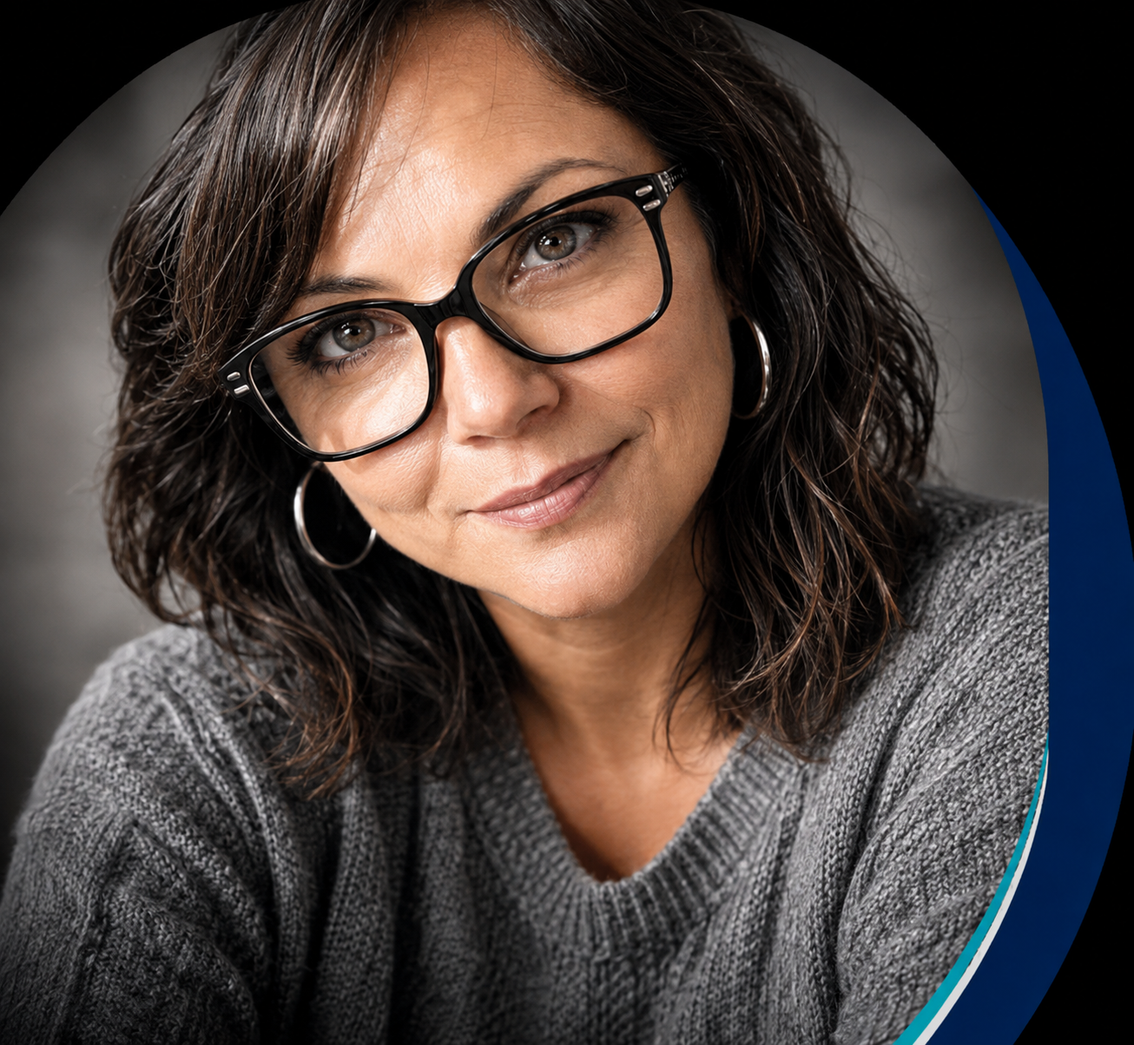
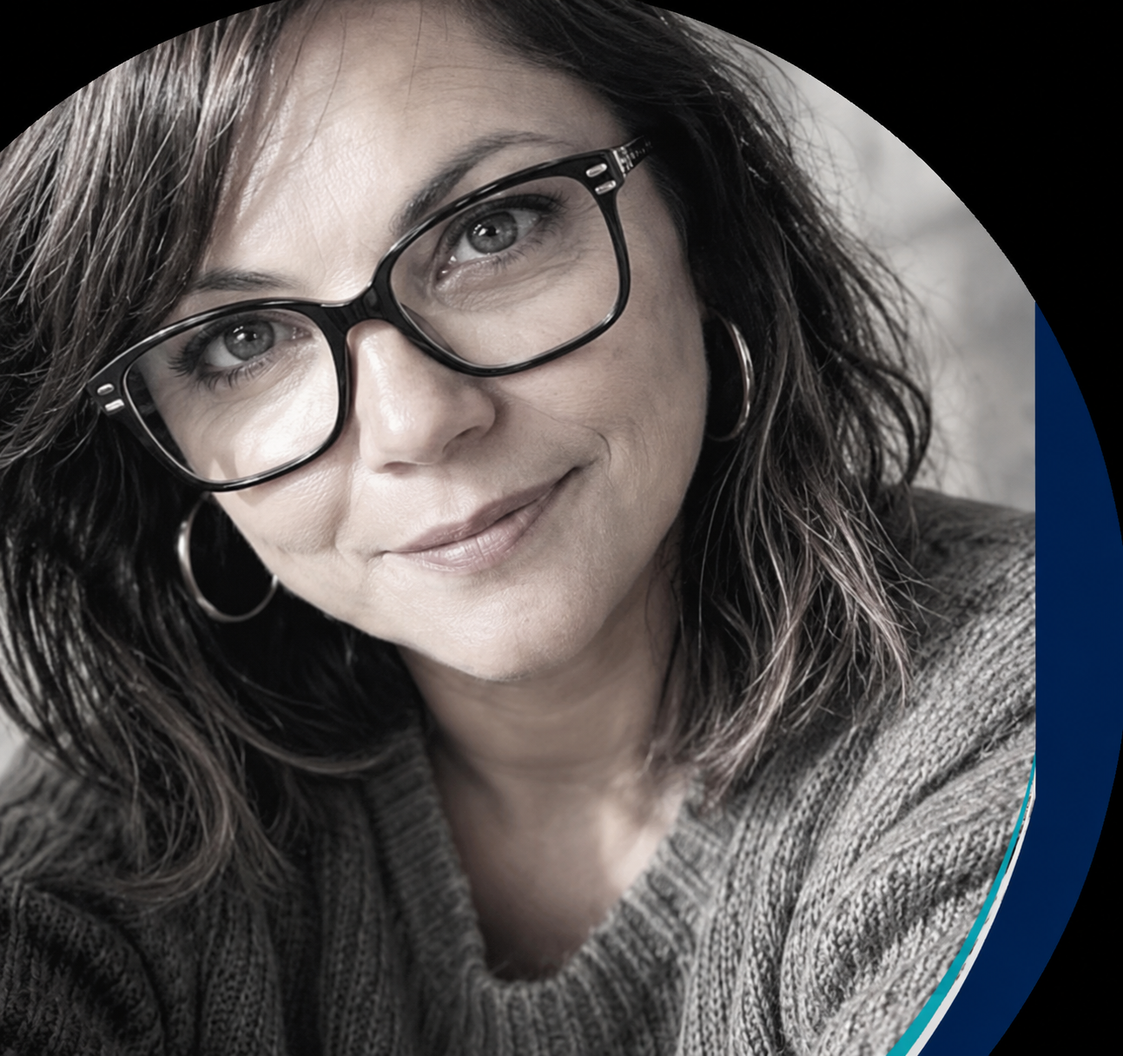
Add files via upload

diff --git a/index.html b/index.html
@@ -1,11 +1,11 @@
-<!DOCTYPE html>
+E html>
 <html lang="fr">
 <head>
   <meta charset="UTF-8">
   <meta name="viewport" content="width=device-width, initial-scale=1.0">
   <meta name="description" content="De l'idée à l'impact — Portfolio professionnel de Sandrine Paparemborde Maumy.">
   <title>De l'idée à l'impact — Sandrine Paparemborde Maumy</title>
-  <link rel="stylesheet" href="style-v3-etape4-1.css?v=352">
+  <link rel="stylesheet" href="style-v3-etape4-1.css?v=341">
 </head>
 <body>
 <div class="intro-screen" aria-hidden="true">
@@ -31,6 +31,7 @@
           <a href="#preuves">Les preuves</a>
           <a href="#resultats">Résultats</a>
           <a href="#management">Management</a>
+          <a href="#immersions">Immersions</a>
           <a href="#temoignages">Ils en parlent</a>
           <a href="#vision">Ma vision</a>
         </div>
@@ -66,8 +67,9 @@
       <a href="#preuves"><strong>02</strong><span>Les preuves</span></a>
       <a href="#resultats"><strong>03</strong><span>Les résultats</span></a>
       <a href="#management"><strong>04</strong><span>Manager dans l'action</span></a>
-      <a href="#temoignages"><strong>05</strong><span>Ils en parlent</span></a>
-      <a href="#vision"><strong>06</strong><span>Ma vision</span></a>
+      <a href="#immersions"><strong>05</strong><span>Immersions managériales</span></a>
+      <a href="#temoignages"><strong>06</strong><span>Ils en parlent</span></a>
+      <a href="#vision"><strong>07</strong><span>Ma vision</span></a>
     </div>
   </div>
 </section>
@@ -144,44 +146,8 @@
         <a class="main-link" href="https://prezi.com/view/c4dwlTIqFjQt7i8cXg9i/?referral_token=P_iN9DlnB3FN" target="_blank" rel="noopener">Voir la preuve →</a>
       </article>
 
-      <article class="folder proof-card" data-category="innovation">
-        <div class="folder-head"><span class="folder-index">02</span><span class="folder-icon">📁</span><span>Mon Passeport Avenir Pro</span></div>
-        <p class="project-summary">Transformer l'expérience des ateliers en un outil personnel, durable et réutilisable.</p>
-        <div class="project-flow">
-          <div><b>Besoin</b><span>Des élèves trop passifs et peu de traces conservées.</span></div>
-          <div><b>Réponse</b><span>Un parcours numérique personnel et progressif.</span></div>
-          <div><b>Impact</b><span>8 classes, 215 élèves, 8 enseignants.</span></div>
-        </div>
-        <div class="skills">Innovation · Partenariat · Conception · Déploiement</div>
-        <a class="main-link" href="https://mon-passeport-avenir-pro.pages.dev/" target="_blank" rel="noopener">Découvrir le projet →</a>
-      </article>
-
-      <article class="folder proof-card" data-category="innovation developpement">
-        <div class="folder-head"><span class="folder-index">03</span><span class="folder-icon">📁</span><span>Padlet CEJ</span></div>
-        <p class="project-summary">Donner aux jeunes un accès rapide et autonome aux opportunités locales.</p>
-        <div class="project-flow">
-          <div><b>Besoin</b><span>Des informations urgentes entre deux rendez-vous.</span></div>
-          <div><b>Réponse</b><span>Un espace partagé alimenté par 5 conseillers.</span></div>
-          <div><b>Impact</b><span>240 jeunes accompagnés pendant 6 mois.</span></div>
-        </div>
-        <div class="skills">Pouvoir d'agir · Conduite du changement · Autonomie</div>
-        <a class="main-link" href="https://padlet.com/APEPolygone/document-partage-equipe-cej-agence-france-travail-de-langon-aosroxestk13sw9f" target="_blank" rel="noopener">Voir la preuve →</a>
-      </article>
-
-      <article class="folder proof-card" data-category="developpement">
-        <div class="folder-head"><span class="folder-index">04</span><span class="folder-icon">📁</span><span>Guide interactif des partenaires</span></div>
-        <p class="project-summary">Rendre l'offre partenariale immédiatement accessible aux conseillers.</p>
-        <div class="project-flow">
-          <div><b>Besoin</b><span>Une offre riche mais difficile à mobiliser rapidement.</span></div>
-          <div><b>Réponse</b><span>Un mémo interactif structuré par besoins.</span></div>
-          <div><b>Impact</b><span>Un outil validé et salué par la direction départementale.</span></div>
-        </div>
-        <div class="skills">Structuration · Simplification · Coordination territoriale</div>
-        <a class="main-link" href="https://poleemploi.sharepoint.com/:p:/r/sites/OCC-Collectif-DTPyrnes-Orientales/_layouts/15/Doc.aspx?sourcedoc=%7BDD48FEF5-0394-4B19-84B0-B2C1670B8840%7D&file=_Guide%20des%20partenaires%20Intensif%20%20Interactif%20JUIN%202026.pptx&action=edit&mobileredirect=true" target="_blank" rel="noopener">Ouvrir le guide →</a>
-      </article>
-
       <article class="folder proof-card featured-proof" data-category="mobilisation">
-        <div class="folder-head"><span class="folder-index">05</span><span class="folder-icon">📁</span><span>Simulation immersive d'entretien</span></div>
+        <div class="folder-head"><span class="folder-index">02</span><span class="folder-icon">📁</span><span>Simulation immersive d'entretien</span></div>
         <p class="project-summary">Mobiliser un collectif autour d'une action concrète à forte valeur pédagogique.</p>
         <div class="project-flow">
           <div><b>Besoin</b><span>Préparer les élèves aux réalités de l'entretien.</span></div>
@@ -193,19 +159,7 @@
       </article>
 
       <article class="folder proof-card" data-category="developpement">
-        <div class="folder-head"><span class="folder-index">06</span><span class="folder-icon">📁</span><span>Guide espace recruteur</span></div>
-        <p class="project-summary">Transformer une procédure complexe en parcours clair pour les employeurs.</p>
-        <div class="project-flow">
-          <div><b>Besoin</b><span>Des employeurs peu autonomes sur l'espace recruteur.</span></div>
-          <div><b>Réponse</b><span>Un guide interactif et un PDF réutilisable.</span></div>
-          <div><b>Impact</b><span>Des démarches simplifiées et plus autonomes.</span></div>
-        </div>
-        <div class="skills">Vulgarisation · Parcours utilisateur · Autonomie employeur</div>
-        <a class="main-link" href="https://prezi.com/view/ou5HqQnrszqdwTtCcEfu/?referral_token=P_iN9DlnB3FN" target="_blank" rel="noopener">Découvrir le guide →</a>
-      </article>
-
-      <article class="folder proof-card" data-category="developpement">
-        <div class="folder-head"><span class="folder-index">07</span><span class="folder-icon">📁</span><span>Développement des compétences</span></div>
+        <div class="folder-head"><span class="folder-index">03</span><span class="folder-icon">📁</span><span>Développement des compétences</span></div>
         <p class="project-summary">Créer un support de référence consultable, évolutif et directement mobilisable.</p>
         <div class="project-flow">
           <div><b>Besoin</b><span>Renforcer les connaissances des équipes sur la formation.</span></div>
@@ -218,7 +172,7 @@
       </article>
 
       <article class="folder proof-card" data-category="mobilisation">
-        <div class="folder-head"><span class="folder-index">08</span><span class="folder-icon">📁</span><span>Revue de performance régionale</span></div>
+        <div class="folder-head"><span class="folder-index">04</span><span class="folder-icon">📁</span><span>Revue de performance régionale</span></div>
         <p class="project-summary">Présenter une innovation CEJ et valoriser les pratiques de l'agence.</p>
         <div class="project-flow">
           <div><b>Besoin</b><span>Rendre visible une initiative locale à fort impact.</span></div>
@@ -230,7 +184,43 @@
       </article>
 
       <article class="folder proof-card" data-category="innovation developpement">
-        <div class="folder-head"><span class="folder-index">09</span><span class="folder-icon">📁</span><span>Parcours Avenir Pro</span></div>
+        <div class="folder-head"><span class="folder-index">05</span><span class="folder-icon">📁</span><span>Padlet CEJ</span></div>
+        <p class="project-summary">Donner aux jeunes un accès rapide et autonome aux opportunités locales.</p>
+        <div class="project-flow">
+          <div><b>Besoin</b><span>Des informations urgentes entre deux rendez-vous.</span></div>
+          <div><b>Réponse</b><span>Un espace partagé alimenté par 5 conseillers.</span></div>
+          <div><b>Impact</b><span>240 jeunes accompagnés pendant 6 mois.</span></div>
+        </div>
+        <div class="skills">Pouvoir d'agir · Conduite du changement · Autonomie</div>
+        <a class="main-link" href="https://padlet.com/APEPolygone/document-partage-equipe-cej-agence-france-travail-de-langon-aosroxestk13sw9f" target="_blank" rel="noopener">Voir la preuve →</a>
+      </article>
+
+      <article class="folder proof-card" data-category="developpement">
+        <div class="folder-head"><span class="folder-index">06</span><span class="folder-icon">📁</span><span>Guide interactif des partenaires</span></div>
+        <p class="project-summary">Rendre l'offre partenariale immédiatement accessible aux conseillers.</p>
+        <div class="project-flow">
+          <div><b>Besoin</b><span>Une offre riche mais difficile à mobiliser rapidement.</span></div>
+          <div><b>Réponse</b><span>Un mémo interactif structuré par besoins.</span></div>
+          <div><b>Impact</b><span>Un outil validé et salué par la direction départementale.</span></div>
+        </div>
+        <div class="skills">Structuration · Simplification · Coordination territoriale</div>
+        <a class="main-link" href="https://poleemploi.sharepoint.com/:p:/r/sites/OCC-Collectif-DTPyrnes-Orientales/_layouts/15/Doc.aspx?sourcedoc=%7BDD48FEF5-0394-4B19-84B0-B2C1670B8840%7D&file=_Guide%20des%20partenaires%20Intensif%20%20Interactif%20JUIN%202026.pptx&action=edit&mobileredirect=true" target="_blank" rel="noopener">Ouvrir le guide →</a>
+      </article>
+
+      <article class="folder proof-card" data-category="innovation">
+        <div class="folder-head"><span class="folder-index">07</span><span class="folder-icon">📁</span><span>Mon Passeport Avenir Pro</span></div>
+        <p class="project-summary">Transformer l'expérience des ateliers en un outil personnel, durable et réutilisable.</p>
+        <div class="project-flow">
+          <div><b>Besoin</b><span>Des élèves trop passifs et peu de traces conservées.</span></div>
+          <div><b>Réponse</b><span>Un parcours numérique personnel et progressif.</span></div>
+          <div><b>Impact</b><span>8 classes, 215 élèves, 8 enseignants.</span></div>
+        </div>
+        <div class="skills">Innovation · Partenariat · Conception · Déploiement</div>
+        <a class="main-link" href="https://mon-passeport-avenir-pro.pages.dev/" target="_blank" rel="noopener">Découvrir le projet →</a>
+      </article>
+
+      <article class="folder proof-card" data-category="innovation developpement">
+        <div class="folder-head"><span class="folder-index">08</span><span class="folder-icon">📁</span><span>Parcours Avenir Pro</span></div>
         <p class="project-summary">Concevoir un parcours pédagogique complet, interactif et évalué.</p>
         <div class="project-flow">
           <div><b>Besoin</b><span>Rendre les ateliers plus engageants et mémorables.</span></div>
@@ -239,6 +229,18 @@
         </div>
         <div class="pills"><a class="pill" href="https://view.genially.com/68e63605e8a2232c6f2ba8a4" target="_blank" rel="noopener">Atelier 1</a><a class="pill" href="https://view.genially.com/68e8ffdde8d4ab42a77d42c5" target="_blank" rel="noopener">Atelier 2</a><a class="pill" href="https://view.genially.com/68f60dcb08e3777e12812fd8" target="_blank" rel="noopener">Atelier 3</a><a class="pill" href="https://view.genially.com/68f60e19b0a2bdd88a7df042" target="_blank" rel="noopener">Atelier 4</a><a class="pill" href="https://view.genially.com/6915ccf838c32f9240b12fc1" target="_blank" rel="noopener">Atelier 5</a><a class="pill" href="https://view.genially.com/68ecd334d738c90b7a5e551c" target="_blank" rel="noopener">Atelier 6</a><a class="pill quiz" href="https://view.genially.com/68e7a7093eefbe0f6482433e" target="_blank" rel="noopener">Quiz 1</a><a class="pill quiz" href="https://view.genially.com/68ecc32f9fa39f3906799a2b" target="_blank" rel="noopener">Quiz 2</a><a class="pill quiz" href="https://view.genially.com/68f6308a477bfd0caac2aa1b" target="_blank" rel="noopener">Quiz 3</a><a class="pill quiz" href="https://view.genially.com/6909ae9fd7bc6ad9372b8e27" target="_blank" rel="noopener">Quiz 4</a></div>
         <div class="skills">Ingénierie pédagogique · Création · Animation · Évaluation</div>
+      </article>
+
+      <article class="folder proof-card" data-category="developpement">
+        <div class="folder-head"><span class="folder-index">09</span><span class="folder-icon">📁</span><span>Guide espace recruteur</span></div>
+        <p class="project-summary">Transformer une procédure complexe en parcours clair pour les employeurs.</p>
+        <div class="project-flow">
+          <div><b>Besoin</b><span>Des employeurs peu autonomes sur l'espace recruteur.</span></div>
+          <div><b>Réponse</b><span>Un guide interactif et un PDF réutilisable.</span></div>
+          <div><b>Impact</b><span>Des démarches simplifiées et plus autonomes.</span></div>
+        </div>
+        <div class="skills">Vulgarisation · Parcours utilisateur · Autonomie employeur</div>
+        <a class="main-link" href="https://prezi.com/view/ou5HqQnrszqdwTtCcEfu/?referral_token=P_iN9DlnB3FN" target="_blank" rel="noopener">Découvrir le guide →</a>
       </article>
     </div>
   </div>
@@ -307,7 +309,7 @@
         <div class="domain-stats">
           <div class="wide-stat"><strong>35 % → 85 %</strong><span>de suivi réalisé</span></div>
           <div><strong>+50</strong><span>points de progression</span></div>
-          <div><strong>+14 pts</strong><span>par rapport à N-1 sur l’indicateur FTAE</span></div>
+          <div><strong>+3 %</strong><span>sur l’indicateur FTAE</span></div>
         </div>
       </article>
 
@@ -383,21 +385,81 @@
   </div>
 </section>
 
+
+<section class="immersions-section" id="immersions">
+  <div class="container reveal">
+    <span class="section-number">05</span><span class="kicker">Construire ma posture managériale</span>
+    <h2>Deux immersions, deux environnements, un même objectif</h2>
+    <p class="intro">Confronter ma représentation du management à des réalités d'agence différentes, observer les pratiques et enrichir ma manière d'agir.</p>
+
+    <div class="immersion-grid">
+      <article class="immersion-card">
+        <div class="immersion-card-head">
+          <span class="immersion-place">PRADES</span>
+          <span class="immersion-duration">2 jours</span>
+        </div>
+        <p class="immersion-context">Agence à taille humaine · proximité · polyvalence · fonctionnement collectif de l'ELD</p>
+        <div class="immersion-points">
+          <div><b>Observer</b><span>La mutualisation, la fluidité des échanges et la capacité des managers à se relayer au-delà de leur périmètre.</span></div>
+          <div><b>Approfondir</b><span>Le pilotage de l'activité, la planification, les ESA et la lecture contextualisée de la performance.</span></div>
+          <div><b>Retenir</b><span>Un manager contribue au fonctionnement global de l'agence et porte collectivement les décisions de l'ELD.</span></div>
+        </div>
+      </article>
+
+      <article class="immersion-card">
+        <div class="immersion-card-head">
+          <span class="immersion-place">MONTPELLIER MÉDITERRANÉE</span>
+          <span class="immersion-duration">3 jours</span>
+        </div>
+        <p class="immersion-context">Agence de +110 collaborateurs · coordination entre managers · enjeux RH · accompagnement du changement</p>
+        <div class="immersion-points">
+          <div><b>Observer</b><span>Le fonctionnement d'une ELD élargie et la coordination entre REA dans un environnement plus complexe.</span></div>
+          <div><b>Approfondir</b><span>Les arbitrages liés à la constitution des équipes, les impacts humains et RH et l'accompagnement des transformations.</span></div>
+          <div><b>Retenir</b><span>La coopération entre pairs et l'intelligence collective sécurisent les décisions et renforcent la cohérence managériale.</span></div>
+        </div>
+      </article>
+    </div>
+
+    <div class="immersion-synthesis">
+      <strong>Ce que ces immersions ont consolidé</strong>
+      <span>Pilotage · coopération en ELD · prise de recul · accompagnement des collaborateurs · décision collective · performance et enjeux humains</span>
+    </div>
+
+    <div class="immersion-perspective">
+      <span class="kicker">Élargir le regard</span>
+      <p>Ma participation au CDTE des Pyrénées-Orientales et à un atelier autour de la convention tripartite complète ces immersions en reliant les réalités d'agence aux enjeux de transformation et de territoire.</p>
+    </div>
+  </div>
+</section>
+
 <section class="reviews-section" id="temoignages">
   <div class="container reveal">
-    <span class="section-number">05</span><span class="kicker">Ils en parlent</span>
-    <h2>Ils en parlent</h2>
-    <p class="reviews-intro">Ces témoignages illustrent mon parcours professionnel.</p>
+    <span class="section-number">06</span><span class="kicker">Ils en parlent</span>
+   <h2>Ils en parlent</h2>
+<p class="reviews-intro">
+  Ces témoignages illustrent mon parcours professionnel.
+</p>
     <div class="quote-grid">
-      <blockquote class="review-card review-ft"><p>« Un grand merci à Mme Paparemborde pour la compilation de l'offre de services partenaires sur un outil mémo interactif très bien conçu. »</p><footer><strong>Anne Danycan</strong><br>Directrice départementale<br>France Travail Pyrénées-Orientales</footer></blockquote>
-      <blockquote class="review-card review-partner"><p>« Ta disponibilité, la qualité de tes échanges et la richesse de ton témoignage ont été particulièrement appréciées. »</p><footer><strong>Patrick Monier</strong><br>Directeur délégué aux formations professionnelles et technologiques<br>Lycée Aristide Maillol</footer></blockquote>
-      <blockquote class="review-card review-partner"><p>« C'est comme si Sandrine faisait partie de l'équipe pédagogique ; c'est une personne ressource pour nous et une vraie réussite. »</p><footer><strong>Kelly Le Cornec</strong><br>Responsable du Bureau des Entreprises<br>Lycée Aristide Maillol</footer></blockquote>
-      <blockquote class="review-card review-ft"><p>« Une personne ressource, force de proposition et engagée dans l'accompagnement des nouveaux entrants. »</p><footer><strong>Séverine Claveau</strong><br>Formatrice interne<br>France Travail</footer></blockquote>
-      <blockquote class="review-card review-ft"><p>« Elle possède un leadership qu'elle pourra mobiliser pour faire progresser une équipe. »</p><footer><strong>Nathalie Rey</strong><br>Responsable d'équipe<br>Agence France Travail de Villenave-d'Ornon</footer></blockquote>
-      <blockquote class="review-card review-ft"><p>« Je la recruterais volontiers en tant que manager de proximité. »</p><footer><strong>Véronique Delrieu</strong><br>Directrice de la Plateforme régionale de contrôle de la recherche d'emploi<br>France Travail Nouvelle-Aquitaine</footer></blockquote>
-      <div class="video-card review-partner">
-        <div><span class="kicker">Preuve en images</span><h3>La simulation d'entretien valorisée par l'équipe pédagogique</h3><p class="video-role"><strong>Marie Boucher</strong><br>Professeure Économie-Gestion<br>Lycée Aristide Maillol</p><p>Marie Boucher, professeure partenaire du projet, a publié une vidéo retraçant la matinée immersive organisée avec les élèves et les conseillers France Travail.</p></div>
-        <div class="video-box"><a href="https://www.linkedin.com/posts/mbhexale12-11_une-g%C3%A9n%C3%A9ration-mcv-qui-transforme-lentra%C3%AEnement-activity-7431767576550113280-bfyH?utm_source=share&utm_medium=member_desktop&rcm=ACoAADkkWWsBetH33jgU1_x3N8IHV4reQwKlmN0" target="_blank" rel="noopener">Regarder la vidéo →</a></div>
+      <blockquote><p>« Un grand merci à Mme Paparemborde pour la compilation de l'offre de services partenaires sur un outil mémo interactif très bien conçu. »</p><footer class="ft-review">
+<strong>Anne Danycan</strong><br>
+Directrice départementale<br>
+France Travail Pyrénées-Orientales
+</footer></blockquote>
+      <blockquote><p>« Ta disponibilité, la qualité de tes échanges et la richesse de ton témoignage ont été particulièrement appréciées. »</p><footer>Patrick Monier · Lycée Aristide Maillol</footer></blockquote>
+      <blockquote><p>« C'est comme si Sandrine faisait partie de l'équipe pédagogique ; c'est une personne ressource pour nous et une vraie réussite. »</p><footer>Kelly Le Cornec · Bureau des Entreprises</footer></blockquote>
+      <blockquote><p>« Une personne ressource, force de proposition et engagée dans l'accompagnement des nouveaux entrants. »</p><footer>Séverine Claveau · Conseillère CEJ</footer></blockquote>
+      <blockquote><p>« Elle possède un leadership qu'elle pourra mobiliser pour faire progresser une équipe. »</p><footer>Nathalie Rey · Responsable d'équipe</footer></blockquote>
+      <blockquote><p>« Je la recruterais volontiers en tant que manager de proximité. »</p><footer>Véronique Delrieu · Directrice</footer></blockquote>
+
+      <div class="video-card">
+        <div>
+          <span class="kicker">Preuve en images</span>
+          <h3>La simulation d'entretien valorisée par l'équipe pédagogique</h3>
+          <p>Marie Boucher, professeure partenaire du projet, a publié une vidéo retraçant la matinée immersive organisée avec les élèves et les conseillers France Travail.</p>
+        </div>
+        <div class="video-box">
+          <a href="https://www.linkedin.com/posts/mbhexale12-11_une-g%C3%A9n%C3%A9ration-mcv-qui-transforme-lentra%C3%AEnement-activity-7431767576550113280-bfyH?utm_source=share&utm_medium=member_desktop&rcm=ACoAADkkWWsBetH33jgU1_x3N8IHV4reQwKlmN0" target="_blank" rel="noopener">Regarder la vidéo →</a>
+        </div>
       </div>
     </div>
   </div>
@@ -405,7 +467,7 @@
 
 <section class="vision-section" id="vision">
   <div class="container reveal">
-    <span class="section-number">06</span><span class="kicker">Ma vision du management</span>
+    <span class="section-number">07</span><span class="kicker">Ma vision du management</span>
     <h2>Créer les conditions qui permettent aux autres d'agir</h2>
     <div class="vision">
       <p>Pendant longtemps, j'ai pensé que ma valeur résidait dans ma capacité à concevoir des outils, structurer des projets ou proposer des solutions.</p>

diff --git a/style-v3-etape4-1.css b/style-v3-etape4-1.css
@@ -1180,3 +1180,23 @@ body.intro-done .intro-screen{
   .domain-stats div{min-height:auto}
   .publics{grid-template-columns:1fr}
 }
+
+
+/* --- Immersions managériales --- */
+.immersions-section{padding:88px 0;background:linear-gradient(180deg,#f7fbfb 0%,#ffffff 100%);}
+.immersion-grid{display:grid;grid-template-columns:repeat(2,minmax(0,1fr));gap:26px;margin-top:34px;}
+.immersion-card{background:#fff;border:1px solid rgba(21,159,163,.22);border-radius:20px;padding:28px;box-shadow:0 16px 40px rgba(7,31,69,.07);}
+.immersion-card-head{display:flex;align-items:center;justify-content:space-between;gap:18px;margin-bottom:14px;}
+.immersion-place{font-weight:800;letter-spacing:.04em;color:#071f45;font-size:1.05rem;}
+.immersion-duration{white-space:nowrap;padding:7px 11px;border-radius:999px;background:#edf4f1;color:#0b3c78;font-weight:700;font-size:.86rem;}
+.immersion-context{margin:0 0 20px;color:#667085;font-weight:600;}
+.immersion-points{display:grid;gap:15px;}
+.immersion-points>div{display:grid;grid-template-columns:92px 1fr;gap:12px;padding-top:14px;border-top:1px solid rgba(7,31,69,.08);}
+.immersion-points b{color:#159fa3;}
+.immersion-points span{color:#172033;line-height:1.55;}
+.immersion-synthesis{margin-top:28px;padding:20px 24px;border-radius:16px;background:#071f45;color:#fff;display:flex;flex-wrap:wrap;align-items:center;gap:12px 22px;}
+.immersion-synthesis strong{font-size:1.02rem;}
+.immersion-synthesis span{opacity:.88;}
+.immersion-perspective{margin-top:18px;padding:22px 24px;border-left:4px solid #159fa3;background:#f5efe5;border-radius:0 14px 14px 0;}
+.immersion-perspective p{margin:8px 0 0;color:#172033;line-height:1.6;}
+@media(max-width:820px){.immersion-grid{grid-template-columns:1fr}.immersion-points>div{grid-template-columns:1fr}.immersion-card-head{align-items:flex-start;flex-direction:column}.immersions-section{padding:64px 0}}

diff --git a/README.md b/README.md
@@ -1,16 +1,28 @@
-# De l'idée à l'impact — V5.1
+# De l'idée à l'impact — V3 Étape 4.1
 
-## Modification réalisée
-- rubrique « Ils en parlent » conservée dans sa structure générale ;
-- fonctions complètes ajoutées ;
-- témoignages France Travail signalés par un liseré bleu ;
-- témoignages du Lycée Aristide Maillol signalés par un liseré vert ;
-- extraits existants conservés ;
-- carte Marie Boucher harmonisée avec les autres témoignages ;
-- aucune photo de tiers utilisée ;
-- aucun lien vers les témoignages écrits ajouté ;
-- aucune autre rubrique modifiée.
+## Fichiers à déposer à la racine du dépôt GitHub
 
-## Installation GitHub
-Déposez tous les fichiers à la racine du dépôt et confirmez leur remplacement.
-Attendez environ deux minutes, puis utilisez Ctrl + F5 sur le site.
+- index.html
+- style-v3-etape4-1.css
+- script-v3-etape4-1.js
+- portrait-sandrine.png
+- logo-france-travail.png
+- README.md
+
+## Modifications
+
+- résultats regroupés en cinq grands domaines ;
+- bloc Avenir Pro ;
+- bloc CEJ / Padlet ;
+- bloc Simulation d’entretien ;
+- bloc FTAE après six mois ;
+- bloc Conception d’outils et publics concernés ;
+- chiffres mieux contextualisés et plus faciles à présenter à l’oral.
+
+Après le commit GitHub, attendre 2 minutes puis utiliser Ctrl + F5.
+
+
+## Mise à jour novembre 2026
+- Ajout de la section « Immersions managériales » (Prades + Montpellier Méditerranée).
+- Réorganisation des preuves pour faire apparaître en premier les réalisations les plus directement liées au management.
+- Navigation et numérotation mises à jour.
